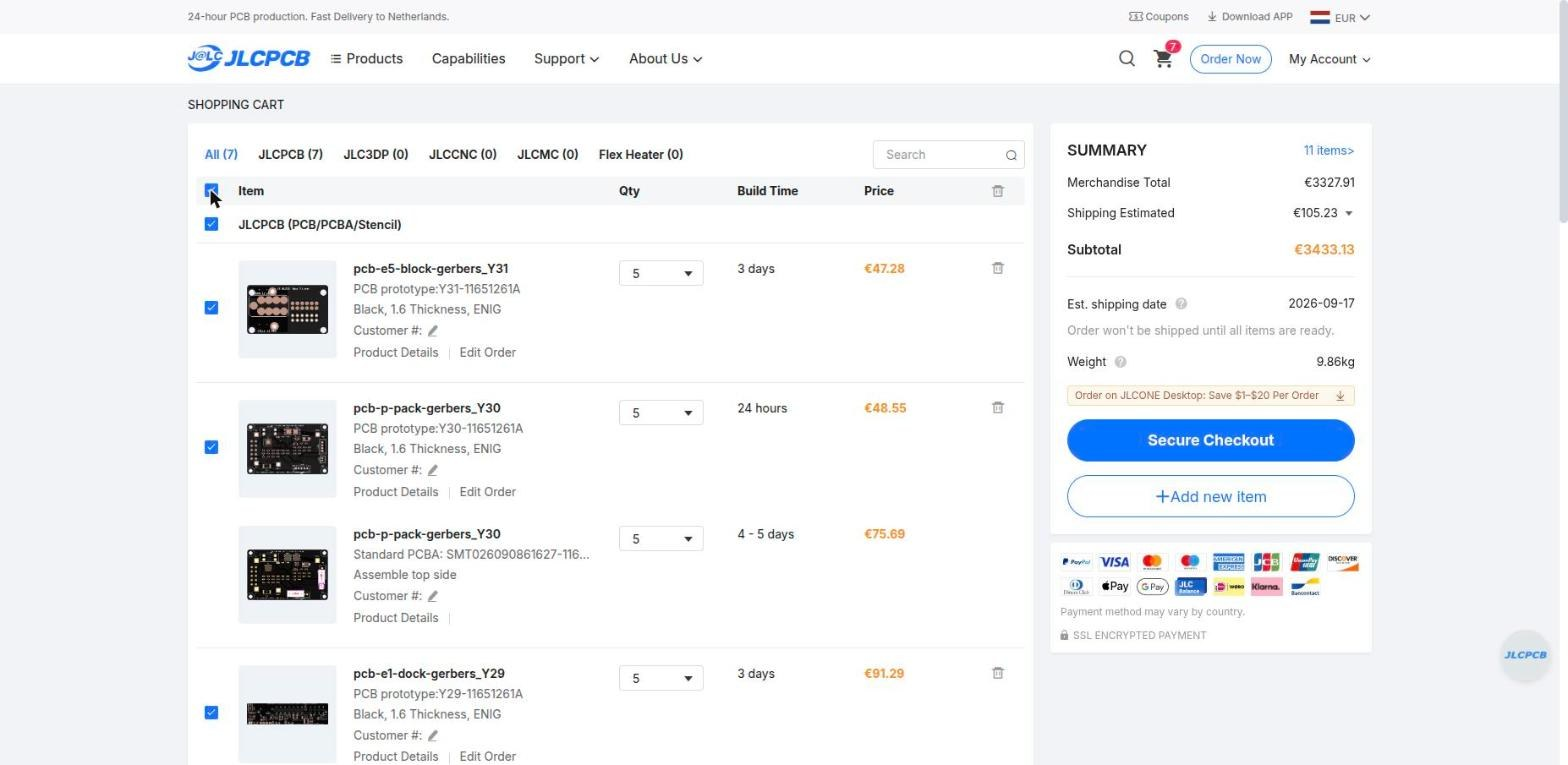
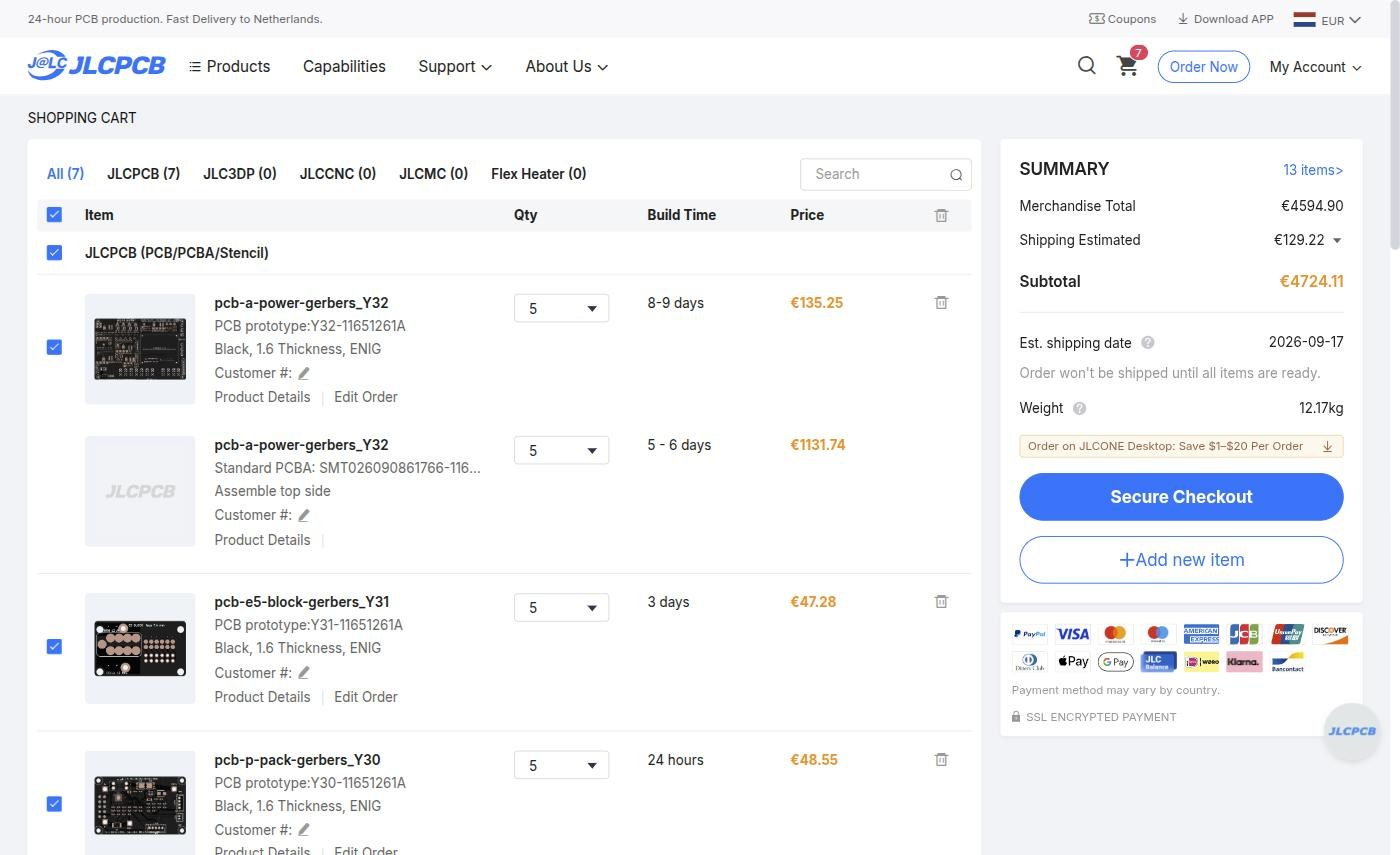
docs(release): A22 rebuilt as cart line Y32, all 13 lines select, 4594.90 EUR merchandise, cart screenshot replaced [MESHSAT-776]

diff --git a/v2/release/revA/order/ORDER-LOG.md b/v2/release/revA/order/ORDER-LOG.md
@@ -607,7 +607,7 @@ Quote for the EasyEDA sponsorship request (Dom Qin). The laptop session (ankh, 0
 
 | Board | PCB line | PCB EUR | PCBA line | PCBA EUR | Sides | BOM lines: confirmed / shortage / not placed | Matching notes |
 |---|---|---|---|---|---|---|---|
-| A22 POWER (6L, 3313 stack, 0.25 via) | Y25-11651261A, 8-9 days | 135.25 | SMT026090860345, top, 5-6 days | 1131.75 | top | 129: 127 / 1 (C1,C2 100u 25V C2911627 0 stock) / 1 unmatched (C11 group 22u 50V X7R 1210 C55533070 pre-order) | laptop session; at 12:11 the cart flagged its L1 XAL1010-103MED C6358489 as out of stock (1 left) and greys the two Y25 lines out of the selection; see the A22 note below |
+| A22 POWER (6L, 3313 stack, 0.25 via) | Y25-11651261A, 8-9 days (replaced by Y32 at 12:44, see the addendum) | 135.25 | SMT026090860345, top, 5-6 days (Y32: SMT026090861766, 1131.74) | 1131.75 | top | 129: 127 / 1 (C1,C2 100u 25V C2911627 0 stock) / 1 unmatched (C11 group 22u 50V X7R 1210 C55533070 pre-order) | laptop session; at 12:11 the cart flagged its L1 XAL1010-103MED C6358489 as out of stock (1 left) and greys the two Y25 lines out of the selection; see the A22 note below |
 | B16 COMPUTE, QUOTE ONLY (6L, 3313, 0.20 via) | Y26-11651261A, 8-9 days | 163.20 | SMT026090860387, both, 5-6 days | 1814.06 | both | 173: 171 / 2 (U13,U14 E72-2G4M20S1E C5352930 0 stock) / 0 | laptop session; site-side replacements in the B16 list below |
 | C7 PANEL BACKER (4L, 7628, 0.20 via) | Y27-11651261A, 3 days | 152.12 | SMT026090861435, both, 3-4 days | 203.08 | both (36 top, 92 bottom) | 57: 41 / 0 / 16 (D1 to D16, the 3 mm face LEDs, bench-soldered, Do not place) | D17 C2166 (an LED) to C7502705 BAT54W; U1,U2 C50993 (not found) to C2864778 PCA9555PWR; R1,R6,R37 1k C11702 (0402 part on the 0603 land) to C21190; R18 47R C25118 (0402 part) to C23182 |
 | D8 APRS (4L, 7628, 0.25 via) | Y28-11651261A, 3 days | 61.16 | SMT026090861512, both, 5-6 days | 251.73 | both (88 top, 92 bottom) | 66: 60 / 1 (C58,C60 22p 500V NP0 1206 C2840256: 14 in stock against 15, no stocked alternative) / 5 (L1,L2 68 nH 1812; U4 TUSB2046BI LQFP-32; Y1,Y2 6 MHz 3225: no JLC part) | U16 C5626 (a 74HC245PW) to C2864778 PCA9555PWR; LED1,LED3,LED6 green C72043 (1 in stock) to C2986059 |
@@ -635,3 +635,5 @@ Cart summary read 12:16 CEST with every selectable line ticked: 11 items selecte
 **YouTrack:** the owner supplied the token at 12:29 CEST (now in `~/gitlab/products/cubeos/.env` on this VM) and the comment below was posted on MESHSAT-776 at 12:30 CEST (comment 5-33431):
 
 > JLCPCB quote cart of the MESHSAT-830 set, 8 Sep 2026 12:25 CEST (ORDER-LOG.md section 5.1, cart-830-set-2026-09-08.jpg): 13 lines, qty 5 each, Standard PCBA, both free confirmations on, impedance control not ordered, nothing paid. PCB: A22 135.25, B16 (quote only) 163.20, C7 152.12, D8 61.16, E6 91.29, P1 48.55, E5 47.28 (698.85). PCBA: A22 1131.75, B16 1814.06, C7 203.08, D8 251.73, E6 419.77, P1 75.69 (3896.08). Whole set 4594.91 EUR merchandise; the cart summary with the 11 selectable lines reads 3327.91 merchandise, 105.23 shipping, 3433.13 subtotal (the A22 lines are unselectable since 12:11 because L1 XAL1010-103MED went out of stock). Not matched at JLC: C7 D1 to D16 (bench LEDs), D8 L1, L2, U4, Y1, Y2, E6 U5, P1 F1 (all Do not place). 33 wrong design LCSC codes corrected in the generators by owner ruling.
+
+**Addendum 8 Sep 2026 12:45 CEST, the A22 line rebuilt so all 13 lines select (owner instruction 12:33):** Y25's Select Parts page keeps its auto-saved state (L1 to C2802562 XAL1010-153MED stand-in, U26 to C465737, U27,U28 to C2864778; 127 of 127 confirmed). The 169.26 of the earlier 304.50 PCB price was the "2-3 days" PCB build-time surcharge the re-opened line had picked up; "Change PCB specifications" showed the line's own options (6 layers, 240 x 170 with rails, 1.6 mm, black, ENIG, 1 oz / 0.5 oz, 0.25 mm via, epoxy filled and capped vias as the site set them, 8-9 days at 0.00) except the material, which sat on TG135; TG155 (3.68) and the JLC06161H-3313 stackup (the 1.5384 mm reminder, Yes) were set again and the PCB read 135.25. The specifications page loaded logged out once (Sign In, USD) and was fine on reload. SAVE TO CART returned "Network Error" but created **Y32**: PCB Y32-11651261A 135.25, PCBA SMT026090861766 1131.74 (one cent under Y25's 1131.75). Y25 (both lines) deleted from the cart. Cart at 12:44 with every line ticked: **13 items, merchandise 4594.90 EUR, shipping estimated 129.22, subtotal 4724.11**, est. shipping date 2026-09-17, 12.17 kg. `cart-830-set-2026-09-08.jpg` replaced with this screenshot (the earlier 11-item one is superseded). The A22 line now prices the corrected PCA9555 and 74LVC08 codes and the L1 stand-in; the C1,C2 and C11-group shortfalls stay as before.

diff --git a/v2/docs/MESHSAT-709-geometry-appendix.md b/v2/docs/MESHSAT-709-geometry-appendix.md
@@ -3187,6 +3187,6 @@ The analytical model of `impedance_check.py` (IPC-2141 microstrip and stripline)
 
 The JLCPCB quote pass of 8 Sep (ordering session on nllei01gpu01, `v2/release/revA/order/ORDER-LOG.md` section 5.1) found that a number of the LCSC codes the generators carry resolve to wrong or unstocked parts at JLCPCB: the PCA9555 code C5626 is a 74HC245PW (A22, B16, D8 through the `lcsc_fill.py` table), C50993 is not in the catalogue (C7), the 74LVC08 code C5605 is a 74HC14D (A22), the BAT54 code C2166 is an LED (C7), the CSD17570Q5B code C2825431 is a lever switch (P1), the KSZ9897 and TPS23861 codes point at other parts (B16), the green 0603 LED C72043 has one piece in stock, and four C7 lines carry codes of the wrong package (1k C11702 and 47R C25118 are 0402 parts, 180R C25270 and the 600R ferrite C1017 are 0805 parts, all on 0603 lands). Asked whether the site-side corrections could be written back so the next upload works out of the box, the owner ruled: edit the generators yourself, only the LCSC strings. Done at 11:45 CEST: 33 code literals in `gen_sch_a.py`, `gen_sch_b.py`, `gen_sch_c.py`, `gen_sch_p.py` and `lcsc_fill.py` (the full map in the log section; every replacement code verified through JLCPCB's parts API for part and package), all five files compile, no schematic or layout change; the six `order/<folder>/upload/*-bom-jlc.csv` carry the same map. The B16 M.2 socket codes are footprint-class stand-ins (HYCW parts) for the named TE and Amphenol sockets, which JLCPCB does not stock: a pick for the design session. The corrected codes reach the deliverable BOMs at the next regeneration of each board (A23, B17, C8, D9, P2 of 32.66).
 
-The cart (13 lines, qty 5, Standard PCBA, both free confirmations on, impedance control not ordered, nothing paid): A22 135.25 + 1131.75, B16 (quote only) 163.20 + 1814.06, C7 152.12 + 203.08, D8 61.16 + 251.73, E6 91.29 + 419.77, P1 48.55 + 75.69, E5 47.28, in all 4594.91 EUR merchandise before shipping and VAT; the site's summary with the 11 selectable lines reads 3327.91 merchandise, 105.23 shipping, 3433.13 subtotal (the A22 lines are unselectable since 12:11 CEST because its L1 XAL1010-103MED went out of stock at JLCPCB during the morning). Screenshot `order/cart-830-set-2026-09-08.jpg`.
+The cart (13 lines, qty 5, Standard PCBA, both free confirmations on, impedance control not ordered, nothing paid): A22 135.25 + 1131.75, B16 (quote only) 163.20 + 1814.06, C7 152.12 + 203.08, D8 61.16 + 251.73, E6 91.29 + 419.77, P1 48.55 + 75.69, E5 47.28, in all 4594.91 EUR merchandise before shipping and VAT; the site's summary with the 11 selectable lines reads 3327.91 merchandise, 105.23 shipping, 3433.13 subtotal (the A22 lines are unselectable since 12:11 CEST because its L1 XAL1010-103MED went out of stock at JLCPCB during the morning). At 12:44 CEST the A22 line was rebuilt as Y32 (the L1 stand-in XAL1010-153MED, the corrected PCA9555 and 74LVC08 codes, PCB 135.25, PCBA 1131.74) and Y25 deleted, so every line selects: 13 items, merchandise 4594.90, shipping estimated 129.22, subtotal 4724.11 EUR. Screenshot `order/cart-830-set-2026-09-08.jpg`.
 
 **A23's VIN_RAW miss, the cause (12:38 CEST, 4b6b6b5):** `dc_drop.py` now names the pieces of a rail whose loads it cannot reach; on the pass-3 pre-route board VIN_RAW is six pieces, and the two that matter are the band (B.Cu, F.Cu and In3, with all seven loads) ending at board y 178.0 and the dock pins (the source) from y 179.4. The band's riser (x 66 to 77) runs straight through the dock header's second row (GND, SHORE_INHIBIT, the E6 USB pair), whose 2.2 mm pads at 2.54 mm pitch leave nothing for a fill, so the VIN_RAW row was joined to the band only by a 0.5 mm strip of its own zone edge and, on the routed board, by the router's 0.4 mm In2 track: the 3.1 percent of passes 2 and 3 was that track carrying 8 A. The fix is copper round the row's west end: 2 mm of zone south of the VIN_RAW row, the passage between J_CP4 and pin 1 (2.3 mm), and the field west of the header up to the CELL+ node bar, as one polygon on B.Cu (priority 4 over the VBAT plane's corner), on F.Cu without a track keep-out (the header's signal pins escape there), and on In3 joined to the dive under the trunk; the pins tie the three layers. Pass 4 runs when the pass-3 route ends.
